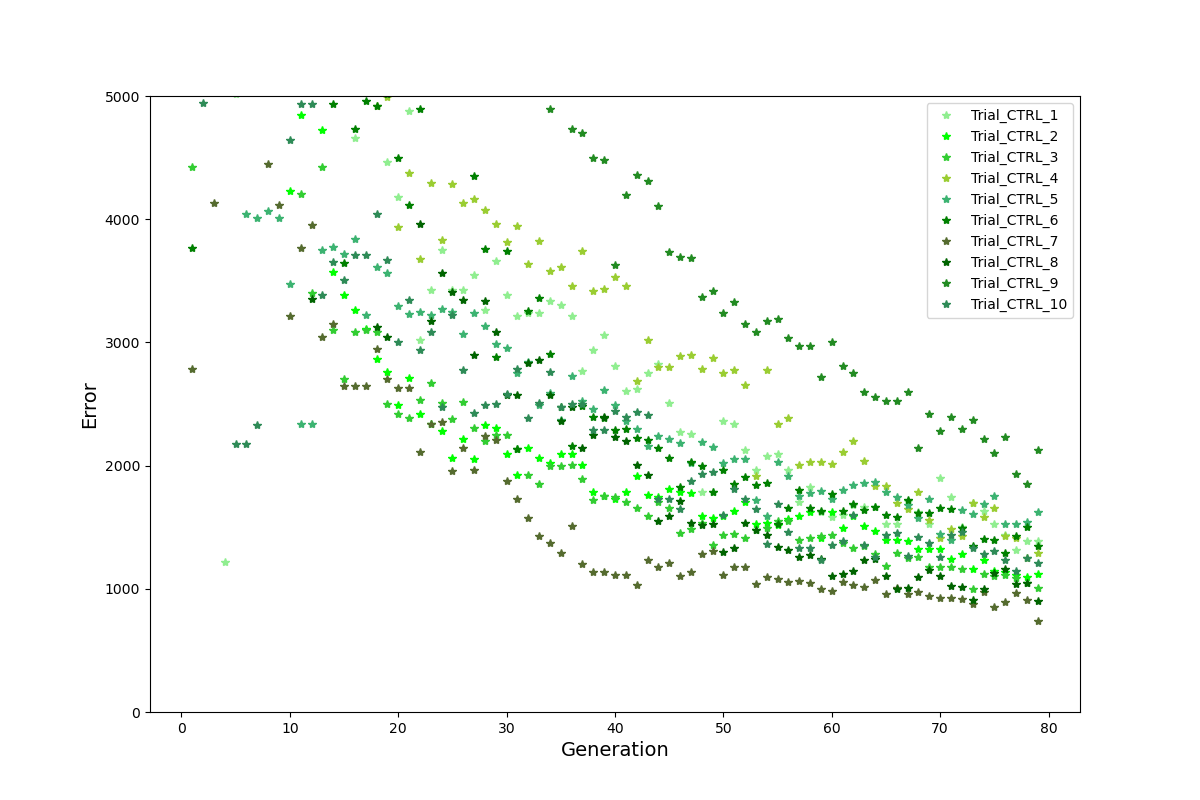
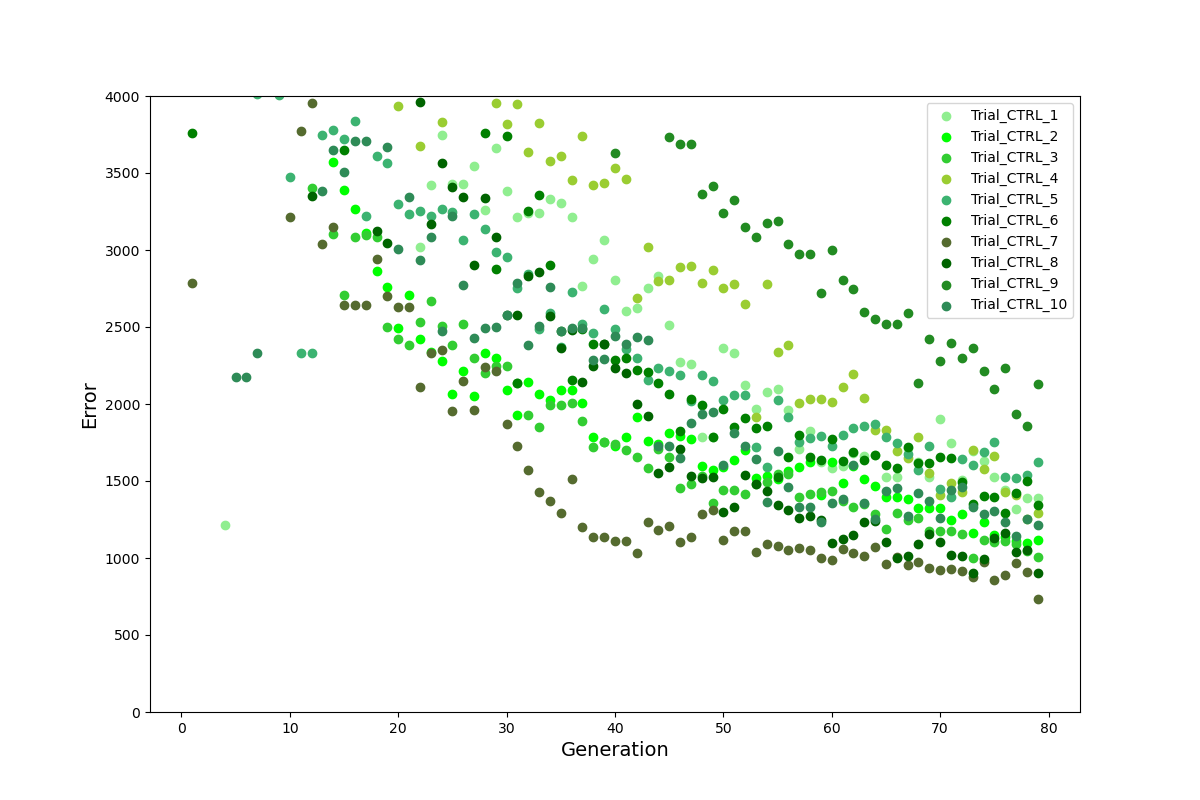
new

diff --git a/GA_bNa_bCa_NaK/errors.py b/GA_bNa_bCa_NaK/errors.py
@@ -1,0 +1,50 @@
+import myokit
+import matplotlib.pyplot as plt
+import pandas as pd
+import numpy as np
+from functions import baseline_run, plot_GA, ind_excel, err_excel
+import seaborn as sns
+from math import log10
+from scipy.signal import find_peaks
+
+gen = [i for i in list(range(1,80))]
+
+err_1, err_2, err_3, err_4, err_5, err_6, err_7, err_8, err_9, err_10, err_ctrl1, err_ctrl2, err_ctrl3, err_ctrl4, err_ctrl5, err_ctrl6, err_ctrl7, err_ctrl8, err_ctrl9, err_ctrl10 = err_excel()
+
+err_HCM = [err_1, err_2, err_3, err_4, err_5, err_6, err_7, err_8, err_9, err_10]
+err_CTRL = [err_ctrl1, err_ctrl2, err_ctrl3, err_ctrl4, err_ctrl5, err_ctrl6, err_ctrl7, err_ctrl8, err_ctrl9, err_ctrl10]
+
+c_HCM = ['lightsteelblue', 'cyan', 'cornflowerblue', 'c', 'darkturquoise', 'dodgerblue', 'blue', 'royalblue', 'midnightblue', 'darkblue']
+c_CTRL = ['lightgreen', 'lime', 'limegreen', 'yellowgreen', 'mediumseagreen', 'green', 'darkolivegreen', 'darkgreen', 'forestgreen','seagreen']
+
+
+########## Errors HCM ###############
+fig, axs = plt.subplots(1, 1, figsize=(12, 8))
+
+for i in list(range(0,len(err_HCM))):
+    best_err = list(err_HCM[i]['Best Error'])
+    axs.scatter(gen, best_err, color=c_HCM[i], label = f'Trial_HCM_{i+1}')
+
+axs.legend(loc='upper right')
+axs.set_ylabel('Error', fontsize=14)
+axs.set_xlabel('Generation', fontsize=14)
+axs.set_ylim(0,4000)
+
+fig.savefig('Errors_HCM.png')
+plt.show()
+
+########## Errors CTRL ##############
+
+fig, axs = plt.subplots(1, 1, figsize=(12, 8))
+
+for i in list(range(0,len(err_CTRL))):
+    best_err = list(err_CTRL[i]['Best Error'])
+    axs.scatter(gen, best_err, color=c_CTRL[i], label = f'Trial_CTRL_{i+1}')
+
+axs.legend(loc='upper right')
+axs.set_ylabel('Error', fontsize=14)
+axs.set_xlabel('Generation', fontsize=14)
+axs.set_ylim(0,4000)
+
+fig.savefig('Errors_CTRL.png')
+plt.show()

diff --git a/GA_bNa_bCa_NaK/plot_GA.py b/GA_bNa_bCa_NaK/plot_GA.py
@@ -32,26 +32,6 @@ axs.set_xlabel('Time (ms)', fontsize=14)
 fig.savefig('HCM.png')
 plt.show()
 
-############ PLOT BEST ERROR HCM ################
-gen = [i for i in list(range(1,80))]
-fig, axs = plt.subplots(1, 1, figsize=(12, 8))
-
-err_1, err_2, err_3, err_4, err_5, err_6, err_7, err_8, err_9, err_10, err_ctrl1, err_ctrl2, err_ctrl3, err_ctrl4, err_ctrl5, err_ctrl6, err_ctrl7, err_ctrl8, err_ctrl9, err_ctrl10 = err_excel()
-
-err_HCM = [err_1, err_2, err_3, err_4, err_5, err_6, err_7, err_8, err_9, err_10]
-err_CTRL = [err_ctrl1, err_ctrl2, err_ctrl3, err_ctrl4, err_ctrl5, err_ctrl6, err_ctrl7, err_ctrl8, err_ctrl9, err_ctrl10]
-
-for i in list(range(0,len(err_HCM))):
-    best_err = list(err_HCM[i]['Best Error'])
-    axs.plot(gen, best_err,'*', color=c_HCM[i], label = f'Trial_HCM_{i+1}')
-
-axs.legend(loc='upper right')
-axs.set_ylabel('Error', fontsize=14)
-axs.set_xlabel('Generation', fontsize=14)
-axs.set_ylim(0,5000)
-fig.savefig('Errors_HCM.png')
-plt.show()
-
 #%%
 ####### PLOT CTRL BEST IND ########
 fig, axs = plt.subplots(1, 1, figsize=(12, 8))
@@ -68,21 +48,6 @@ axs.set_ylabel('Voltage (mV)', fontsize=14)
 axs.set_xlabel('Time (ms)', fontsize=14)
 fig.savefig('CTRL.png')
 plt.show()
-
-############ PLOT BEST ERROR CTRL ################
-fig, axs = plt.subplots(1, 1, figsize=(12, 8))
-
-for i in list(range(0,len(err_CTRL))):
-    best_err = list(err_CTRL[i]['Best Error'])
-    axs.plot(gen, best_err,'*', color=c_CTRL[i], label = f'Trial_CTRL_{i+1}')
-
-axs.legend(loc='upper right')
-axs.set_ylabel('Error', fontsize=14)
-axs.set_xlabel('Generation', fontsize=14)
-axs.set_ylim(0,5000)
-fig.savefig('Errors_CTRL.png')
-plt.show()
-
 
 #%%
 
